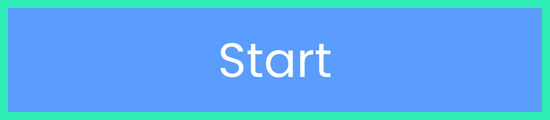
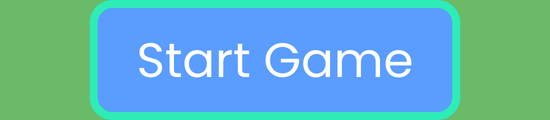
animation เมื่อ click ปุ่ม

diff --git a/src/ktbkonno/winsanmwtv/Launcher.java b/src/ktbkonno/winsanmwtv/Launcher.java
@@ -2,6 +2,8 @@ package ktbkonno.winsanmwtv;
 
 import javax.swing.*;
 import java.awt.*;
+import java.awt.event.ActionEvent;
+import java.awt.event.ActionListener;
 import java.awt.event.MouseAdapter;
 import java.awt.event.MouseEvent;
 
@@ -16,28 +18,54 @@ public class Launcher extends JPanel {
     JLabel exitButton = new JLabel();
     ImageIcon exitIcon = new ImageIcon(this.getClass().getResource("image/exit.png"));
 
+    JLabel spaces = new JLabel();
+    ImageIcon spacesIcon = new ImageIcon(this.getClass().getResource("image/spaces.png"));
+
+    ImageIcon startClick = new ImageIcon(this.getClass().getResource("image/startClick.png"));
+    ImageIcon exitClick = new ImageIcon(this.getClass().getResource("image/exitClick.png"));
+
     Launcher() {
-        setLayout(new GridLayout(3, 1));
+        setLayout(new GridLayout(4, 1));
         startButton.setIcon(startIcon);
         startTitle.setIcon(startTitleImage);
         exitButton.setIcon(exitIcon);
+        spaces.setIcon(spacesIcon);
         add(startTitle);
+        add(spaces);
         add(startButton);
         add(exitButton);
 
         startButton.addMouseListener(new MouseAdapter() {
             @Override
             public void mouseClicked(MouseEvent e) {
-                // Handle the click event here
-                System.out.println("Image clicked!");
+                startButton.setIcon(startClick);
+
+                Timer timer = new Timer(25, new ActionListener() {
+                    @Override
+                    public void actionPerformed(ActionEvent e) {
+                        startButton.setIcon(startIcon);
+                        System.out.println("tf");
+                    }
+                });
+                timer.setRepeats(false); // Ensure the timer triggers only once
+                timer.start();
             }
         });
 
         exitButton.addMouseListener(new MouseAdapter() {
             @Override
             public void mouseClicked(MouseEvent e) {
-                // Handle the click event here
-                System.exit(0);
+                exitButton.setIcon(exitClick);
+
+                Timer timer = new Timer(25, new ActionListener() {
+                    @Override
+                    public void actionPerformed(ActionEvent e) {
+                        exitButton.setIcon(exitIcon);
+                        System.exit(0);
+                    }
+                });
+                timer.setRepeats(false); // Ensure the timer triggers only once
+                timer.start();
             }
         });
     }
